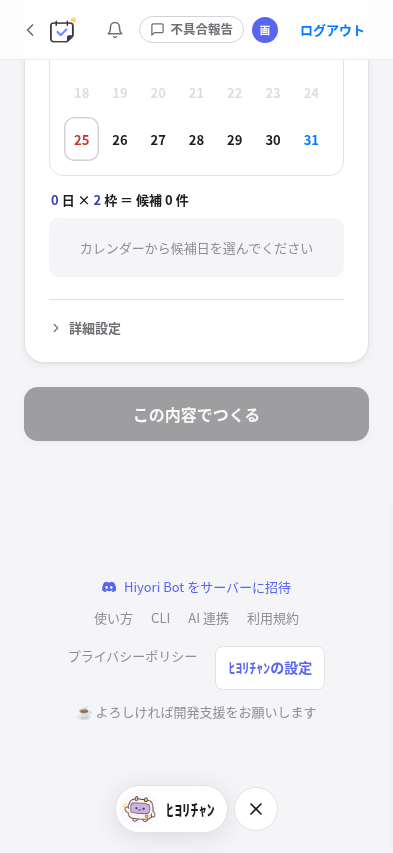
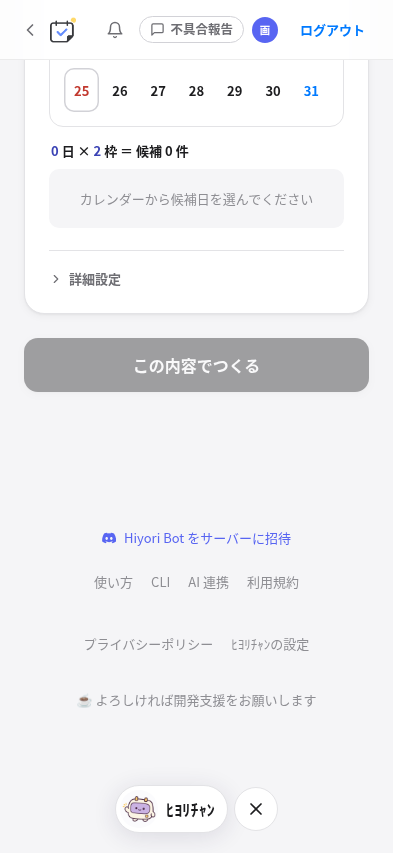
Align footer settings and close native dialogs before hiding

diff --git a/src/client/components/Footer.tsx b/src/client/components/Footer.tsx
@@ -7,6 +7,9 @@ import { useHiyori } from './Hiyori'
 const linkStyle: React.CSSProperties = {
   color: 'var(--color-fg3)',
   textDecoration: 'none',
+  display: 'inline-flex',
+  alignItems: 'center',
+  minHeight: 44,
 }
 
 // 共通フッター。ナビリンク＋控えめな開発支援リンクを 1 箇所に集約し、
@@ -41,7 +44,7 @@ export function Footer() {
         <DiscordMark size={14} color="var(--color-blurple)" />
         {DISCORD_BOT_INVITE_LABEL}
       </a>
-      <div style={{ display: 'flex', justifyContent: 'center', flexWrap: 'wrap', gap: 18 }}>
+      <div style={{ display: 'flex', alignItems: 'center', justifyContent: 'center', flexWrap: 'wrap', gap: 18 }}>
         <Link to="/help" style={linkStyle}>
           使い方
         </Link>
@@ -59,7 +62,7 @@ export function Footer() {
         <Link to="/privacy" style={linkStyle}>
           プライバシーポリシー
         </Link>
-        {hiyori && <button type="button" data-hiyori-settings-trigger onClick={(event) => { event.currentTarget.focus(); hiyori.openSettings() }} style={{ color: 'var(--color-blurple)', minHeight: 44, border: '1px solid var(--color-border)', borderRadius: 8, padding: '0 12px', background: 'var(--color-surface)', font: 'inherit', fontSize: 14, fontWeight: 600, cursor: 'pointer' }}>ﾋﾖﾘﾁｬﾝの設定</button>}
+        {hiyori && <button type="button" className="hiyori-settings-trigger" data-hiyori-settings-trigger onClick={(event) => { event.currentTarget.focus(); hiyori.openSettings() }} style={{ ...linkStyle, border: 0, padding: 0, background: 'none', font: 'inherit', cursor: 'pointer' }}>ﾋﾖﾘﾁｬﾝの設定</button>}
       </div>
       <a
         href="https://buymeacoffee.com/a1ro"

diff --git a/src/client/components/Hiyori.css b/src/client/components/Hiyori.css
@@ -22,6 +22,7 @@
 }
 .hiyori-dismiss { display: grid; place-items: center; flex: none; width: 44px; height: 44px; padding: 0; border: 1px solid var(--hy-border); border-radius: 50%; background: var(--hy-surface); color: var(--hy-ink); cursor: pointer; }
 .hiyori-dismiss:focus-visible { outline: 3px solid var(--hy-primary); outline-offset: 2px; }
+.hiyori-settings-trigger:focus-visible { outline: 2px solid var(--color-blue); outline-offset: 3px; border-radius: 3px; }
 .hiyori-launcher:hover { border-color: var(--hy-primary); box-shadow: 0 6px 28px rgb(45 35 78 / 18%); }
 .hiyori-avatar { position: relative; display: block; flex: none; width: 44px; height: 44px; overflow: hidden; border-radius: 50%; background: var(--hy-warm); }
 .hiyori-avatar img { display: block; width: 100%; height: 100%; padding: 2px; box-sizing: border-box; object-fit: contain; }

diff --git a/src/client/components/Hiyori.tsx b/src/client/components/Hiyori.tsx
@@ -157,7 +157,12 @@ export function HiyoriProvider({ children }: { children: ReactNode }) {
     setSettings(next)
     try { localStorage.setItem(SETTINGS_KEY, JSON.stringify(next)) } catch { /* Memory fallback when storage is unavailable. */ }
   }
-  function close() { setOpen(false) }
+  function close() {
+    // Close while the native dialog is still connected. Hiding the mascot may
+    // unmount it, so an effect after rendering would no longer have this ref.
+    panel.current?.close()
+    setOpen(false)
+  }
   function hide() { previousFocus.current ??= launcher.current; discard(); saveSettings({ hidden: true, autoDisplay: false }); close() }
   function localReply(content: string) {
     setGuidesOpen(false)

diff --git a/docs/hiyori-e2e-access-check.md b/docs/hiyori-e2e-access-check.md
@@ -1,0 +1,32 @@
+# e2e 読み取りと設定 UI の確認（2026-10-25）
+
+## HTTP403/error1010
+
+13:10頃の匿名 GET `/assets/main-7UBmwPYM.js` は HTTP403、本文 `error code: 1010`、応答 Server は `envoy`。元の応答の Date/CF-Ray を保存していなかったため、そのヘッダーとの直接突合はできない。
+
+既存 Cloudflare 接続から Security Events を読み取り、同じ host/path と既定 User-Agent `Python-urllib/3.12` に一致するイベントを13:09〜13:13 UTCの範囲に1件確認した。
+
+- 日時: `2026-10-25T13:10:39Z`
+- Ray: `a501766f298acccb`
+- `source: bic` / `ruleId: bic` / `action: block`
+
+Browser Integrity Check（BIC）は有効。通常の Bot Fight Mode は無効。対象に一致する Access アプリ、UA blocking rule、Page Rule、zone の custom/managed/configuration entrypoint と account root ruleset は確認されなかった。Managed ruleset がカタログに存在するだけで稼働ルールとみなさない。同じ Ray を絞った既存 Worker ログは0件で、Worker手前のBIC拒否と整合するが、ログ0件だけを根拠にはしない。旧 Firewall Rules API は410（廃止）だったので、現行 Rulesets API で確認した。観測権限不足はなかった。
+
+[公式1010文書](https://developers.cloudflare.com/support/troubleshooting/http-status-codes/cloudflare-1xxx-errors/error-1010/)と[ BIC 文書](https://developers.cloudflare.com/waf/tools/browser-integrity-check/)は、非標準のライブラリ既定 User-Agent 等による拒否を説明している。今回のイベントは BIC を示し、アプリの認可403とは区別できる。Chrome の危険サイト判定、証明書信頼問題、侵害・漏えいとの因果関係は確認していない。
+
+## 承認された1回の正規クライアント読み取り
+
+同じ公開ファイルを、ブラウザーではなく検証ツール自身を示す User-Agent `HiyoriE2EReadCheck/1.0 (operator-authorized; read-only)` で1回だけ取得した。Cookie/認証情報なし、リダイレクト追従なし、既定のTLS検証を維持。BIC/WAF/Access/TLS/DNS設定や本番は変更していない。
+
+- 開始 `2026-10-25T13:46:48.709080Z` / 応答 Date `Sun, 25 Oct 2026 13:46:49 GMT`
+- HTTP200 / CF-Ray `a501ab685ed7012b-GRU` / Content-Type `text/javascript`
[1 lines of base64/hex data omitted]
+- source `babbef48195e37491e12a85da409c76fc04d2860` のローカル成果物と一致
+
+この1回で承認枠を使用済み。以後の配信版の公開GETや認証付き実経路を確認したものではない。現在のBICを全体で無効化する必要性は示されていない。追加の読み取り試験や限定例外設定が必要な場合は、対象とリスクを明示して別途確認する。実モデル呼出しはこの診断で追加していない。
+
+## 設定ボタン
+
+従来の独立設定ボタンには通常時にも枠・背景・強調色と異なる文字サイズがあった。通常時は周囲のフッターリンクと同じ13px・色・整列にし、44pxの操作領域を透明な余白で維持する。キーボードの `:focus-visible` は2pxの青いアウトラインで残す。独立設定をチャットへ移していない。
+
+提供画像の全画面の灰色状態はローカルでは再現できず、原因を断定しない。閉鎖時には接続中の native dialog を先に close してから非表示/unmountし、モーダルが残らずフッターを実際にクリックできることをChromiumで確認した。本人の私的なスクリーンショットはこのリポジトリやLibraryへ保存し直していない。

diff --git a/docs/design/hiyori/README.md b/docs/design/hiyori/README.md
@@ -25,6 +25,8 @@
 
 [PC の独立した復帰設定](desktop-hidden-settings.png) ／ [スマホの独立した復帰設定](mobile-hidden-settings.png)
 
+[キーボードでの設定ボタンのフォーカス](desktop-settings-focus.png)。通常時は周囲と同じ13px・色・整列・枠なしで、44pxの透明な操作領域を維持する。[アクセス診断と設定 UI の確認](../../hiyori-e2e-access-check.md)
+
 サイトのテーマトークンを共有し、OS dark のときもサイトが light ならウィジェットだけ暗くならない。スマホの起動 UI は通常のページフローでフッターより後に置き、カードを覆わず Safari の下部バーの高さを推測しない。各非表示×は44px。本体・起動 UI は非表示後に DOM から外し、再読み込み後も設定を維持する。復帰は共通フッターから開く独立した表示設定で、非表示中はキャラクターやチャットを出さない。ミームの主操作は本体の非表示で、チャットの×は一時的な閉鎖。静的な宣伝文・英語見出し・重複した説明は削除した。
 
 開いた直後は見出しへフォーカスし、スマホのキーボードを勝手に開かない。閉じると起動元へ戻り、Escape とネイティブ dialog のフォーカス制御を使う。Ctrl/⌘+Enter は IME 変換中に送信しない。パネルは VisualViewport の幅・高さ・オフセットに追従する。ローカル Chromium の320/390/393px、低い画面と200%拡大で検証した。添付 iOS Safari 画像は非公開で目視したが、実機 Safari の最終動作を確認したとは扱わない。
